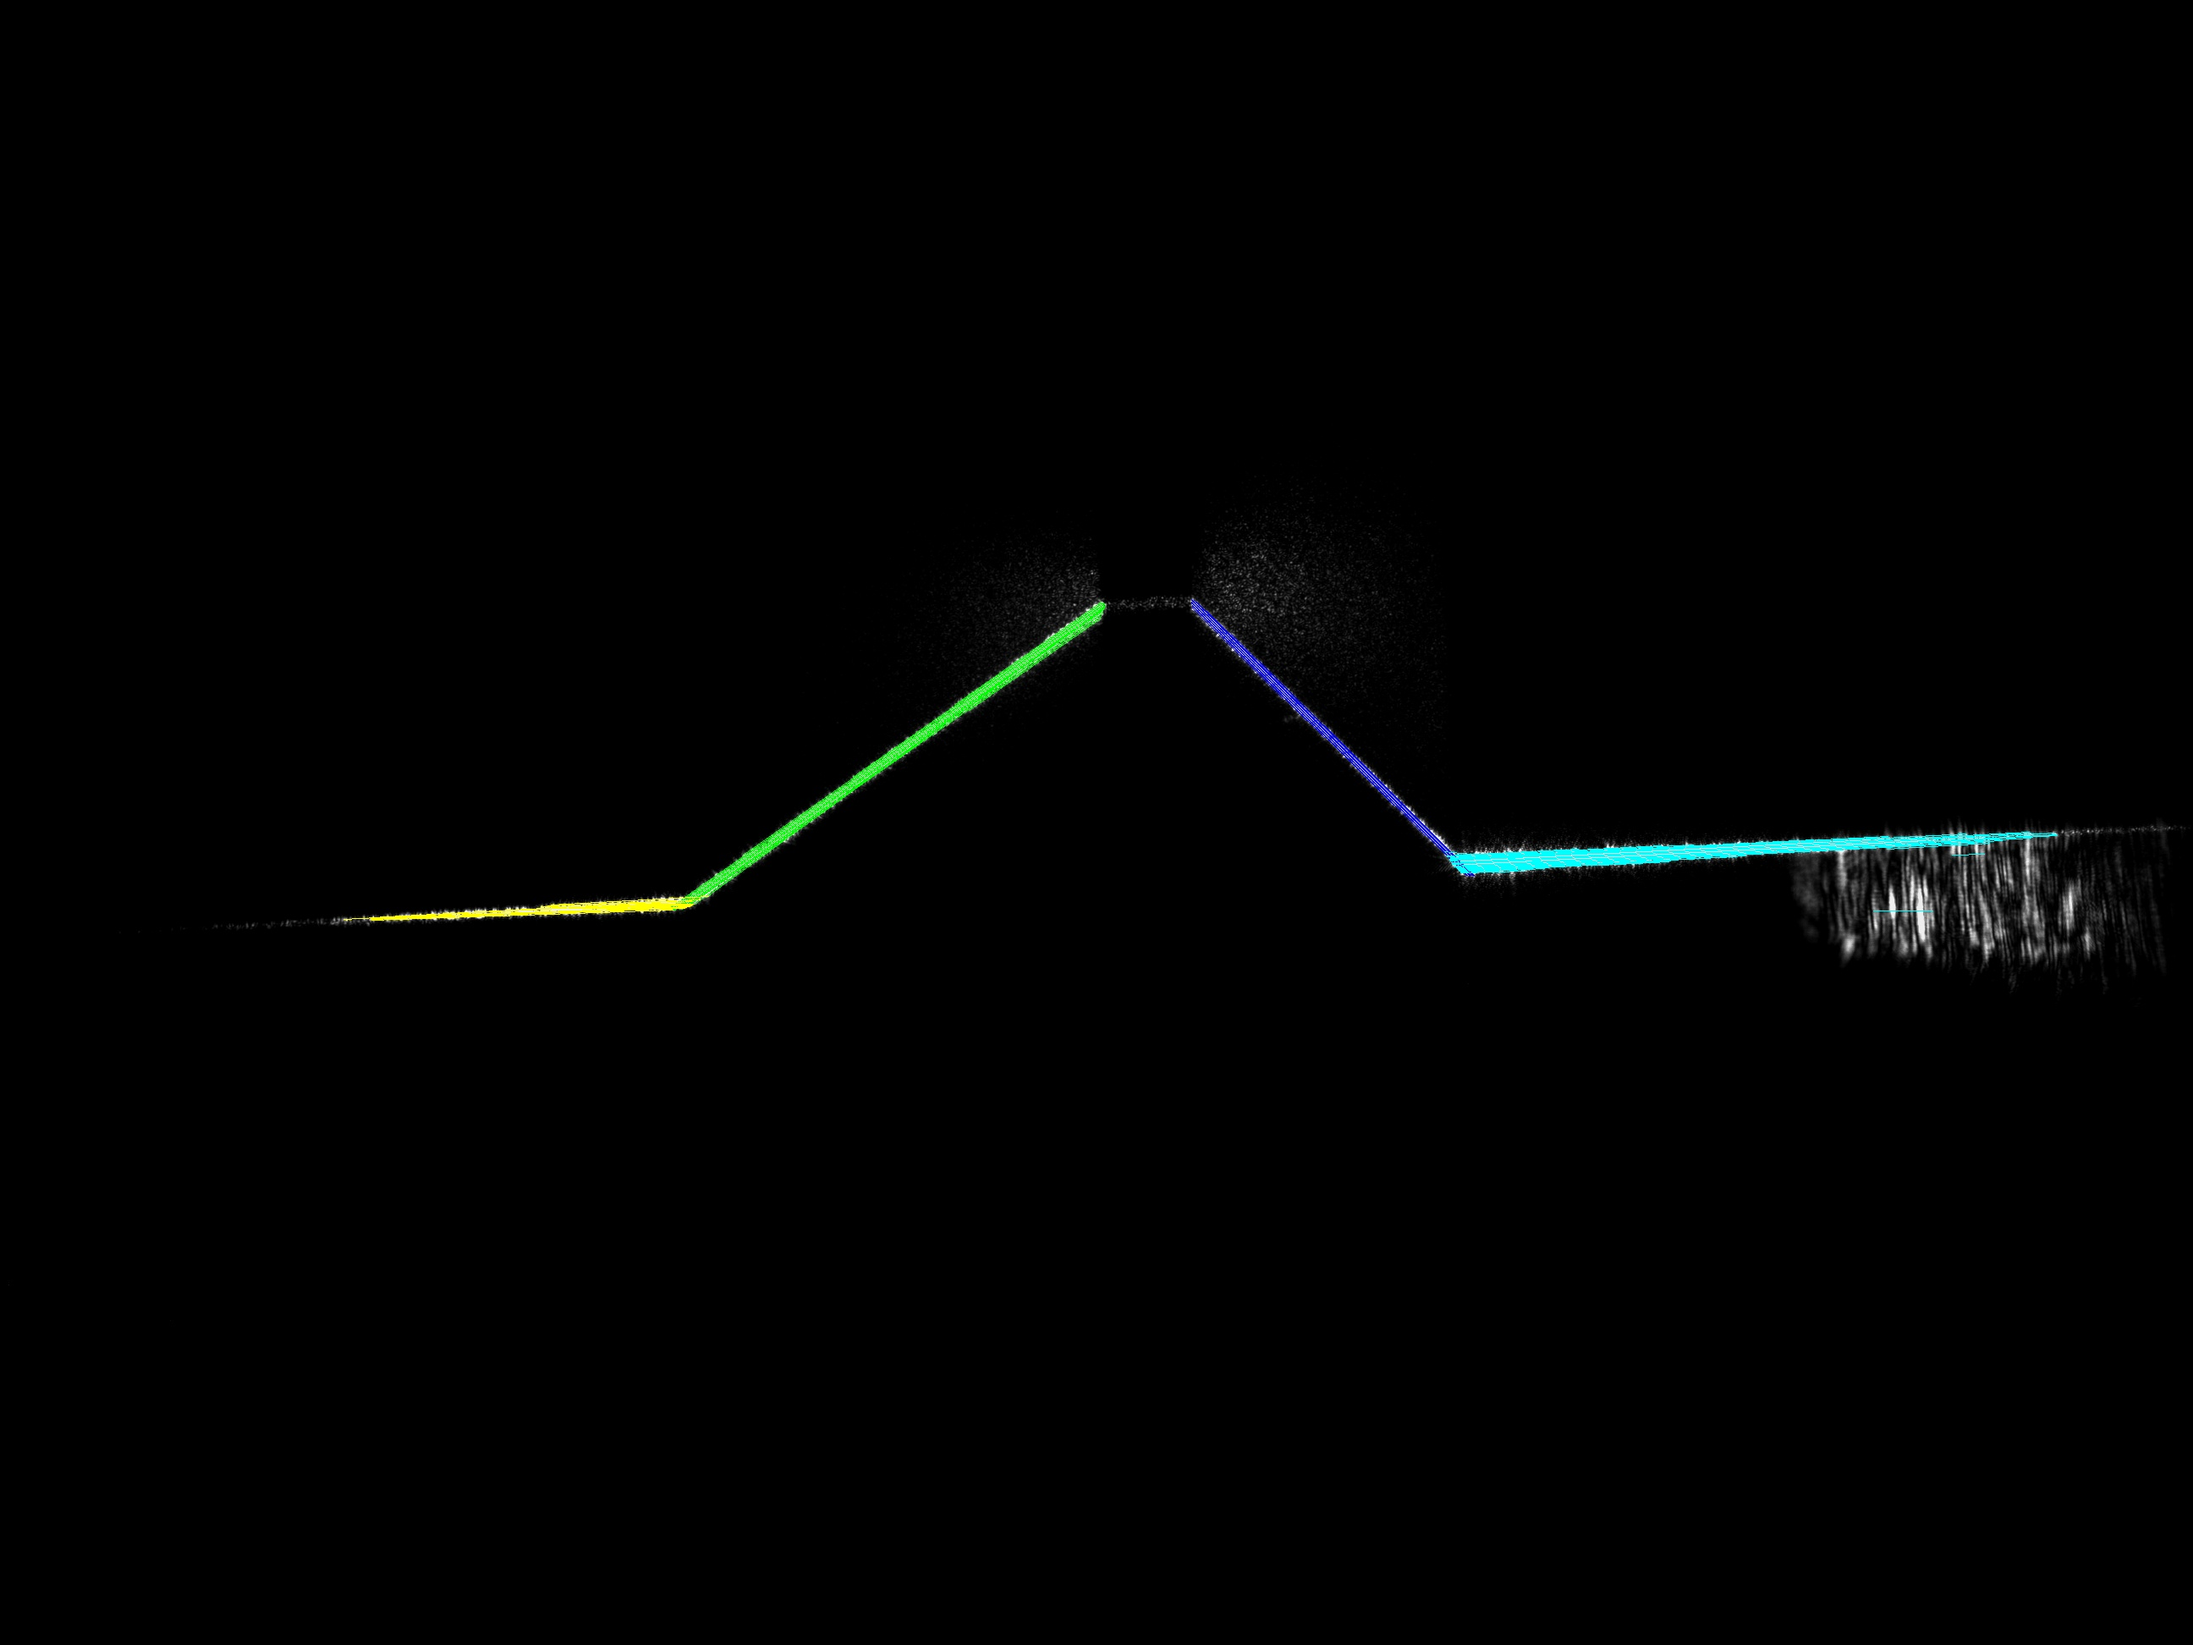
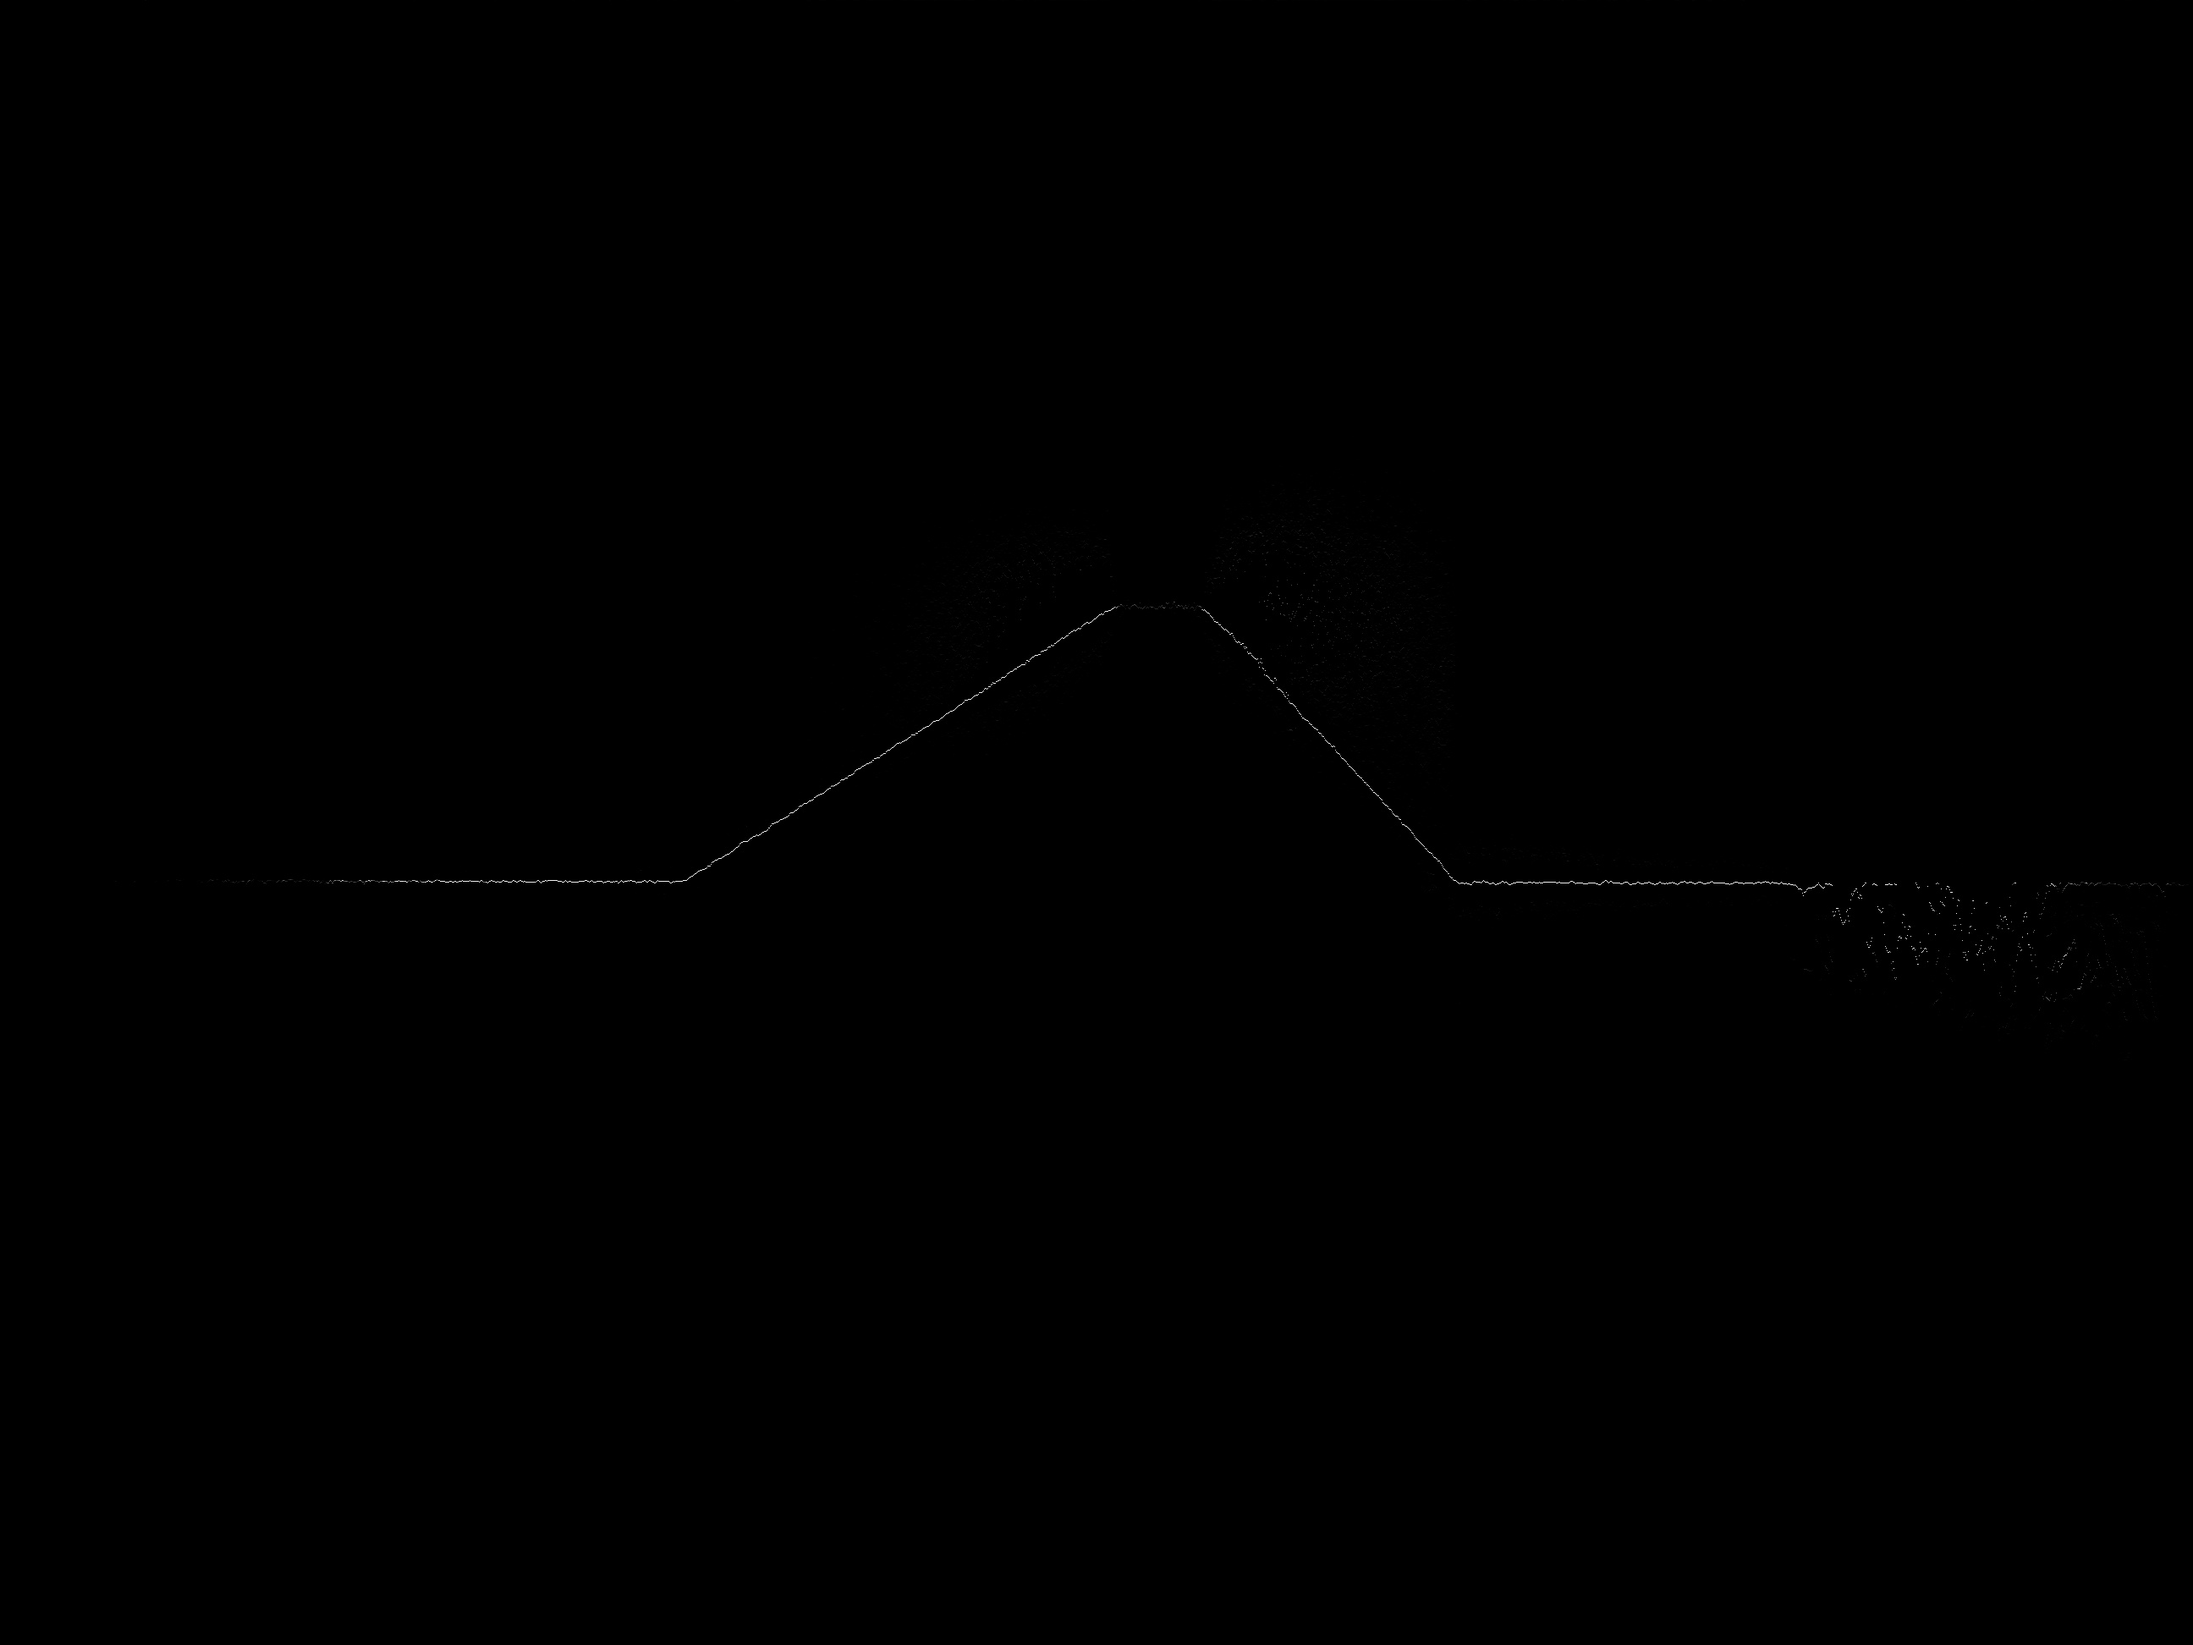
update ws3.py get the core line successfully.

diff --git a/ws3.py b/ws3.py
@@ -3,11 +3,11 @@ import numpy as np
 import cv2 
 
 
-#TEST_IMAGE = ('ssmall.png', 'sbig.png', 'rsmall.png', 'rbig.png')
-TEST_IMAGE = ('rsmall.png', )
+TEST_IMAGE = ('ssmall.png', 'sbig.png', 'rsmall.png', 'rbig.png')
+#TEST_IMAGE = ('rsmall.png', )
 
 
-WRITE_RESULT = False
+WRITE_RESULT = True
 SLOPE_TH = 0.15
 
 def imgRotate(image, angle):
@@ -64,13 +64,16 @@ def getLines(image, min_length = 100, max_line_gap = 25):
 
 
 def getSurfaceAdjustAngle(image, max_angle = 10):
+    np.set_printoptions(precision=3, suppress=True)
+
     # Get the dimention of the image and then determine the certer. 
     (h, w) = image.shape[:2]
     (cX, cY) = (w // 2, h // 2)
 
     lines = getLines(image, min_length = 200)
 
-    zero_slope_lines = []
+    zero_slope_lines_left = []
+    zero_slope_lines_right = []
     max_radian = max_angle * np.pi / 180
 
     for line in lines: 
@@ -81,33 +84,152 @@ def getSurfaceAdjustAngle(image, max_angle = 10):
         theta_apro = np.around(theta, 1)
 
         if theta_apro < max_radian and theta_apro > -max_radian:
+        
+            if (x1 + x2) < w:
+                zero_slope_lines_left.append([x1, y1, x2, y2, length, theta_apro, theta])
+            else:
+                zero_slope_lines_right.append([x1, y1, x2, y2, length, theta_apro, theta])
 
-            zero_slope_lines.append([x1, y1, x2, y2, length, theta_apro, theta])
+    if zero_slope_lines_left or zero_slope_lines_right:
 
-    if zero_slope_lines:
-        zero_slope_lines = np.array(zero_slope_lines)
+        reference_lines = []
+        ret_radian_left = None
+        ret_radian_right = None
+        ret_radian = 0
 
-        # Sort the lines with length. 
-        index = np.argsort(zero_slope_lines, axis = 0)
-        index_length = index[..., 4]
-        zero_slope_lines = zero_slope_lines[index_length]
+        if zero_slope_lines_left:
+            zero_slope_lines_left = np.array(zero_slope_lines_left)
 
-        np.set_printoptions(precision=3, suppress=True)
+            # Sort the lines with length. 
+            index = np.argsort(zero_slope_lines_left, axis = 0)
+            index_length = index[..., 4]
+            zero_slope_lines_left = zero_slope_lines_left[index_length]
 
-        # Get the longest X lines:
-        x = zero_slope_lines.shape[0] // 4
-        print(zero_slope_lines[::-1][:x])
-        #for line in zero_slope_lines[::-1][:x]:
-        #    print(line)
+            # Get the longest X lines:
+            x = zero_slope_lines_left.shape[0] // 4 + 1
+            print(zero_slope_lines_left[::-1][:x])
+            
+            ret_radian_left = np.mean(zero_slope_lines_left[::-1][:x][..., 6])
+            print('Radian LEFT: ', ret_radian_left)
 
-        ret_radian = np.mean(zero_slope_lines[::-1][:x][..., 6])
+
+        if zero_slope_lines_right:
+            zero_slope_lines_right = np.array(zero_slope_lines_right)
+
+            # Sort the lines with length. 
+            index = np.argsort(zero_slope_lines_right, axis = 0)
+            index_length = index[..., 4]
+            zero_slope_lines_right = zero_slope_lines_right[index_length]
+
+            # Get the longest X lines:
+            x = zero_slope_lines_right.shape[0] // 4 + 1
+            print(zero_slope_lines_right[::-1][:x])
+            
+            ret_radian_right = np.mean(zero_slope_lines_right[::-1][:x][..., 6])
+            print('Radian RIGHT: ', ret_radian_right)
+
+        if ret_radian_left and ret_radian_right:
+            ret_radian = (ret_radian_right + ret_radian_left) / 2
+        elif ret_radian_left:
+            ret_radian = ret_radian_left
+        elif ret_radian_right:
+            ret_radian = ret_radian_right
+
         ret_angle = ret_radian * 180 / np.pi 
+
     else:
         print('Failed to found enough surface lines. ')
         ret_angle = 0
 
     return ret_angle 
-        
+
+def getCorePoint(inputArray, begin, end):
+    value = None
+    balance = 0
+
+    length = end - begin
+    if length == 0: 
+        return (0, value)
+    elif length == 1:
+        return (0, inputArray[begin])
+
+    value = max(inputArray[begin:end])
+
+    balance += inputArray[begin]
+    balance -= inputArray[end]
+
+    while begin < end:
+        if balance >= 0:
+            end -= 1
+            balance -= inputArray[end]
+        else:
+            begin += 1
+            balance += inputArray[begin]
+
+    return (begin, value)  
+
+def lineSegment(inputArray, min_sep = 0):
+    ret = []
+    segment = []
+
+    for item in inputArray:
+        if item <= min_sep:
+            if segment:
+                ret.append(segment)
+                segment = []
+            continue
+        else:
+            segment.append(item)
+
+    if segment:
+        ret.append(segment)
+
+    np.array(ret)
+    return ret    
+
+def getOutline(image, black_limit = 0):
+    
+    outline = np.zeros(shape = image.shape, dtype = np.uint8)
+    (h, w) = image.shape[:2]
+
+    for i in range(w):
+        array = image[..., i]
+        segments = lineSegment(array, min_sep = black_limit)
+        for segment in segments:
+            pos, value = getCenterPoint(segment)
+            outline[pos][i] = value
+            print('DOT: ({}, {}), value: {}'.format(i, pos, value))
+
+    return outline
+
+def getCoreImage(image, black_limit = 0):
+    (h, w) = image.shape[:2]
+    coreImage = np.zeros(shape = (h, w), dtype = np.uint8)
+
+    scan_pos = 0
+
+    for i in range(w):
+
+        scan_pos = 0
+
+        while scan_pos < h:
+            
+            if image[scan_pos][i] > black_limit:
+                
+                for seg_pos in range(scan_pos, h):
+                    if image[seg_pos][i] <= black_limit:
+                        break
+                
+                pos, value = getCorePoint(image[..., i], scan_pos, seg_pos)
+                print('DOT: ({}, {}), value: {}'.format(i, pos, value))
+                coreImage[pos][i] = value
+
+                scan_pos = seg_pos
+
+            else:
+                scan_pos += 1
+
+    return coreImage
 
 
 def main():
@@ -136,22 +258,24 @@ def main():
         image = imgRotate2(image_gray, angle)
         print('After rotation: ', image.shape)
 
-        #images = np.hstack([image, blur, binary, closed, edages])
-        images = image
+        coreImage = getCoreImage(image, black_limit = 0)
 
+        #images = np.hstack([image, blur, binary, closed, edages])
+        images = np.hstack([coreImage])
+
+        #np.savetxt('rsmall.csv', image, fmt='%2d', delimiter=',')
+        #print(image.max())
+
+        if WRITE_RESULT:
+            result_name = file.split('.')[0] + '_res.jpg'
+            cv2.imwrite(result_name, coreImage)
+    
         if display.size == 0:
             display = images.copy()
         else:
             display = np.hstack([display, images])
 
-        np.savetxt('rsmall.csv', image, fmt='%2d', delimiter=',')
-        print(image.max())
-
-        if WRITE_RESULT:
-            result_name = file.split('.')[0] + '_res.jpg'
-            cv2.imwrite(result_name, lines_image)
-    
-    display = np.hstack([image_gray, display])
+    #display = np.vstack([display])
     cv2.namedWindow('Image', flags = cv2.WINDOW_NORMAL)
     #cv2.resizeWindow('Image', 1800, 1000)
     cv2.imshow('Image', display)
